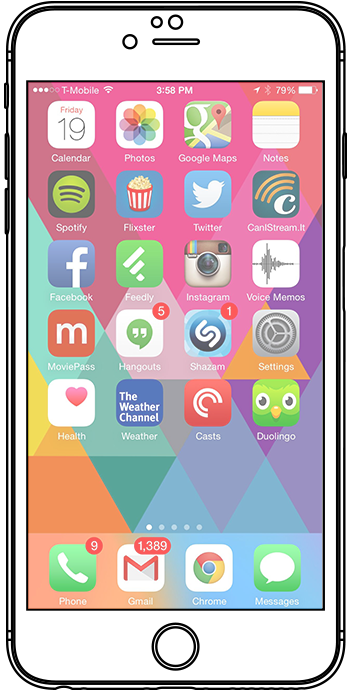
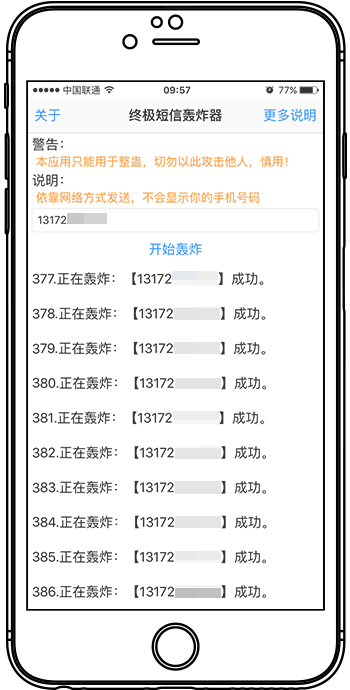
ggg
ggg

diff --git a/index.html b/index.html
@@ -85,8 +85,8 @@ Smartphone Compatible web template, free webdesigns for Nokia, Samsung, LG, Sony
 					<div class="col-md-8 header-right  wow bounceIn animated" data-wow-delay="0.4s" style="visibility: visible; -webkit-animation-delay: 0.4s;"">
 						
 			<div class="header-info">
-				<h1> look at me,</h1>
-					<h2> I am Here!</h2>
+				<h1>终极短信轰炸器</h1>
+					<h2><font size="10">★极速轰炸千百短信炸个不停！</font><br/><font size="10">★使用网络方式发送，不会显示&nbsp; &nbsp; &nbsp; &nbsp; 你的号码！</font></h2>
 				</div>
 					<div class="button">
 						<a href="#"><img src="images/appstore1.png"></a>
@@ -107,12 +107,12 @@ Smartphone Compatible web template, free webdesigns for Nokia, Samsung, LG, Sony
 				<div class="col-md-6 feature-left wow bounceIn animated" data-wow-delay="0.4s" style="visibility: visible; -webkit-animation-delay: 0.4s;">
 					<div class="main-grid">
 						<img src="images/vector.png">
-							<h3>main features</h3>
+							<h3></h3>
 						</div>
 						<div class="chat-grid">
 							<div class="chat">
-									<h3>chat:)</h3>
-									<p>There are many variations of passages of Lorem Ipsum available, but the majority have suffered alteration in some form, by injected humour, or randomised words which don't look even slightly believable.</p>
+									<h3>输入号码，一键轰炸！</h3>
+									<p>简单易懂，繁琐设置皆由软件自动完成；<br/>只需输入号码即可轰炸！</p>
 								</div>
 								<div class="chat-icon">
 									<img src="images/ring.png">
@@ -121,8 +121,8 @@ Smartphone Compatible web template, free webdesigns for Nokia, Samsung, LG, Sony
 					</div>
 					<div class="add-grid">
 							<div class="addgroup">
-									<h3>add groups</h3>
-										<p>There are many variations of passages of Lorem Ipsum available, but the majority have suffered alteration in some form, by injected humour, or randomised words which don't look even slightly believable.</p>
+									<h3>稳定可靠，极速轰炸！</h3>
+										<p>每天更新轰炸器接口；每次启动，将自动加载最新接口，永远保持最快、最稳定的短信轰炸速度！</p>
 								</div>
 								<div class="add-icon">
 									<img src="images/ring1.png">
@@ -142,8 +142,8 @@ Smartphone Compatible web template, free webdesigns for Nokia, Samsung, LG, Sony
 					<img src="images/iphone2.png" class="img-responsive" alt="">
 				</div>
 				<div class="col-md-8 discover-right wow bounceInLeft animated" data-wow-delay="0.4s" style="visibility: visible; -webkit-animation-delay: 0.4s;">
-					<h3>DISCOVER, MAKE, AND COLLECT BEAUTIFUL THINGS,</h3>
-					<p>It is a long established fact that a reader will be distracted by the readable content of a page when looking at its layout. The point of using Lorem Ipsum is that it has a more-or-less normal distribution of letters, as opposed to using 'Content here, content here', making it look like readable English. Many desktop publishing packages and web page editors now use Lorem Ipsum as their default model text, and a search for 'lorem ipsum' will uncover many web sites still in their infancy. Various versions have evolved over the years, sometimes by accident, sometimes on purpose (injected humour and the like).</p>
+					<h3>终极威力，强力轰炸！</h3>
+					<p>★启用多线程轰炸，最高支持128线程！<br/>&nbsp; &nbsp; 高速稳定！128倍的超强轰炸速度等你见证！<br/><br/>★在轰炸速度不理想时，自动使用IP代理，保持终极的轰炸速度！</p>
 				</div>
 				<div class="clearfix"></div>
 				</div>
@@ -155,11 +155,11 @@ Smartphone Compatible web template, free webdesigns for Nokia, Samsung, LG, Sony
 						</div>
 						<div class="col-md-5 fion-right wow bounceInLeft animated" data-wow-delay="0.4s" style="visibility: visible; -webkit-animation-delay: 0.4s;">
 							<div class="fion-grid">
-								<h4>fi<span>o</span>n</h4>
-								<p>There are many variations of passages of Lorem Ipsum available, but the majority have suffered alteration in some form, by injected humour, or randomised words which don't look even slightly believable.</p>
+								<h4>终极短信轰炸器</h4>
+								<p>① 128多线程轰炸<br/>② 不会显示你的号码<br/>③ 自动切换高速IP代理<br/>④ 强大、稳定、极速轰炸</p>
 								</div>
 								<div class="fion-grid1">
-									<p>It is a long established fact that a reader will be distracted by the readable content of a page when looking at its layout. The point of using Lorem Ipsum is that it has a more-or-less normal distribution of letters, as opposed to using 'Content here, content here', making it look like readable English. Many desktop publishing packages and web page editors now use Lorem Ipsum as their default model text, and a search for 'lorem ipsum' will uncover many web sites still in their infancy. Various versions have evolved over the years</p>
+									<p>免费下载地址：</p>
 							</div>
 							
 					<div class="button4">
@@ -177,7 +177,7 @@ Smartphone Compatible web template, free webdesigns for Nokia, Samsung, LG, Sony
 			<div class="lets-section">
 				<div class="container">
 				<div class="lets-top wow bounceInRight animated" data-wow-delay="0.4s" style="visibility: visible; -webkit-animation-delay: 0.4s;">
-					<h4>Let's stop wasting time and get it on!</h4>
+					<h4>终极短信轰炸器<br/>你值得拥有!</h4>
 					<div class="button2">
 						<a href="#"><img src="images/appstore1.png"></a>
 						</div>
